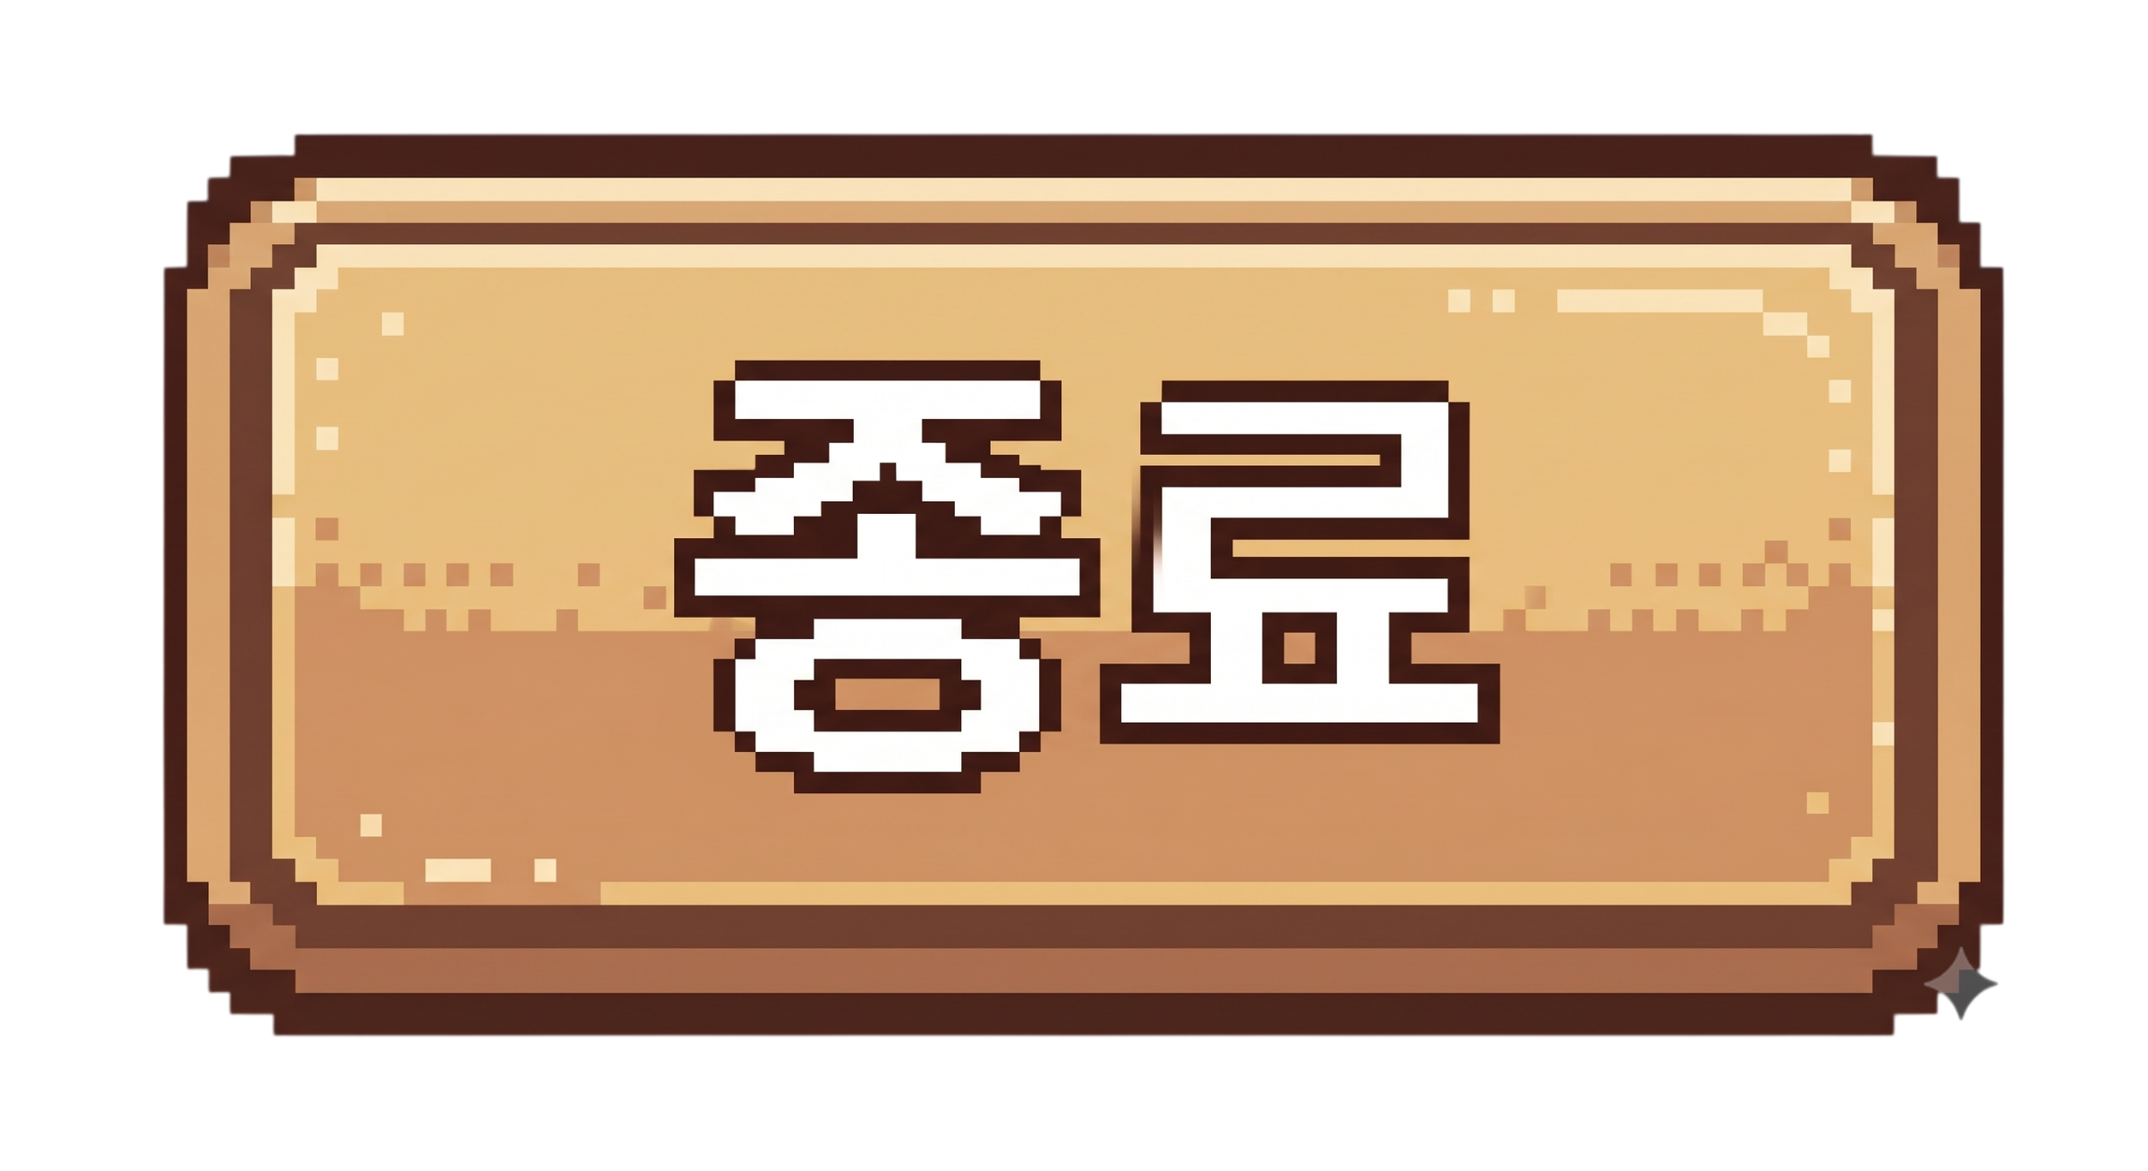
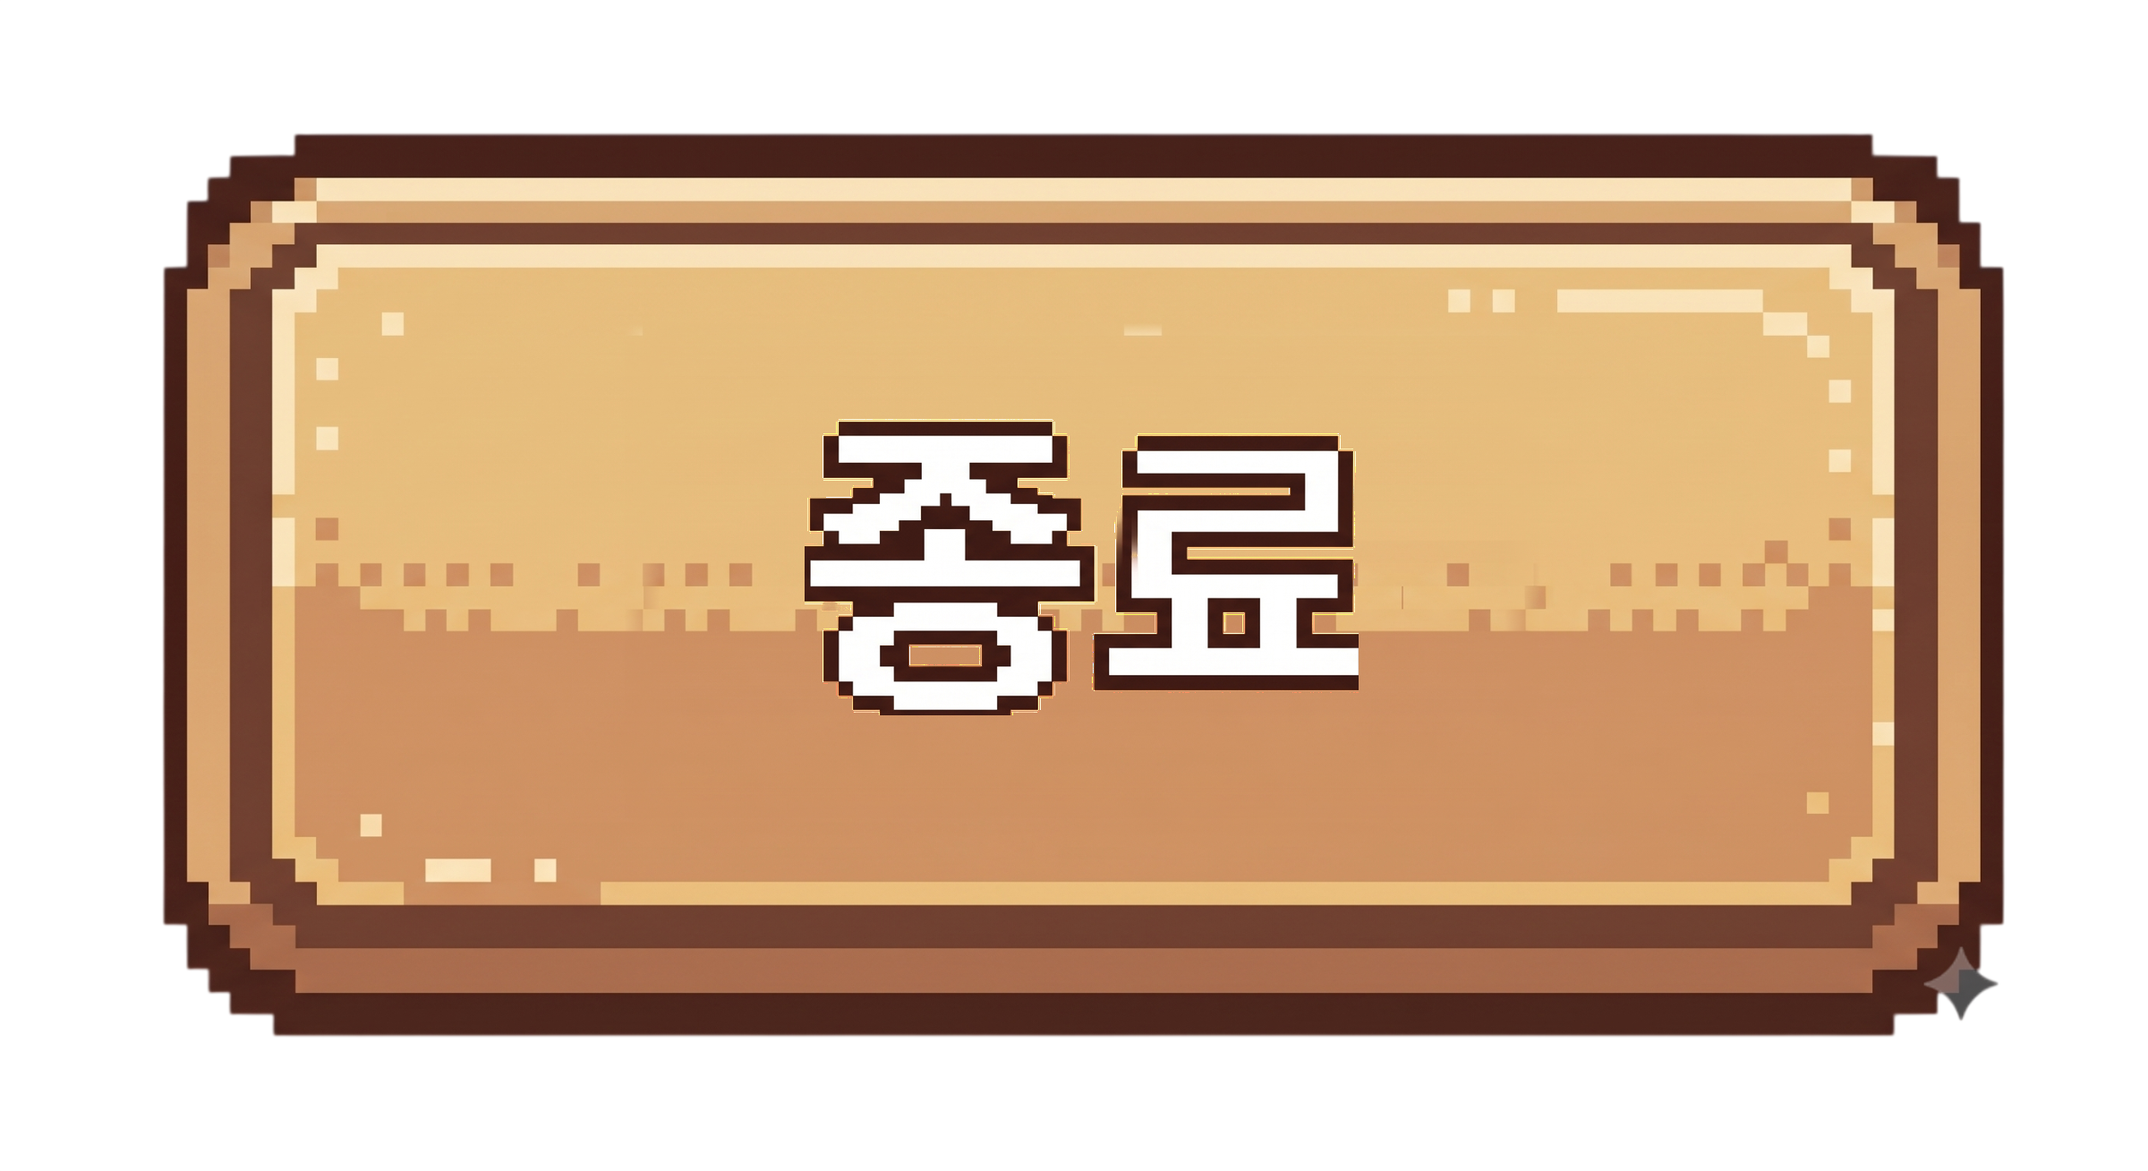
버튼·팝업 그림 속 글자를 0.7배로 줄임
@리소스 추가_1차 의 그림 6장(확인/취소/종료/닫기 버튼, 팝업 2장)에서
글자만 떼어내 0.7배로 줄이고 그 자리는 주변 배경으로 메웠다.
판·테두리·장식은 그대로이고 여백 자른 뒤 크기도 같아서
게임 안의 버튼 크기와 자리는 변하지 않는다.

원본 9장과 다시 뽑는 스크립트는 리소스_원본_1차/ 에 남겨 두었다.
배율을 바꾸려면 원본을 되돌린 뒤 글자_줄이기.py 에 배율을 붙여 실행한다.

Claude-Session: https://claude.ai/code/session_01XZNNTpKe5p1YYYjtXybaUK

Changed region(s): [[0.2812, 0.3058, 0.7188, 0.7034]]

diff --git a/글자크기_조정_반영보고서.html b/글자크기_조정_반영보고서.html
@@ -1,0 +1,176 @@
+<title>그림 속 글자 줄이기</title>
+<meta charset="utf-8">
+<style>
+  :root{
+    --bg:#f7f6f3; --card:#fff; --ink:#1c1b19; --muted:#6b6862;
+    --line:#e3e0da; --accent:#c2410c; --ok:#15803d; --warn:#b45309;
+  }
+  @media (prefers-color-scheme:dark){:root:not([data-theme="light"]){
+    --bg:#16151a; --card:#1f1e24; --ink:#eceaf0; --muted:#a3a0ab;
+    --line:#33313b; --accent:#fb923c; --ok:#4ade80; --warn:#fbbf24;
+  }}
+  :root[data-theme="dark"]{
+    --bg:#16151a; --card:#1f1e24; --ink:#eceaf0; --muted:#a3a0ab;
+    --line:#33313b; --accent:#fb923c; --ok:#4ade80; --warn:#fbbf24;
+  }
+  body{background:var(--bg);color:var(--ink);font:16px/1.65 "Malgun Gothic","Segoe UI",system-ui,sans-serif;
+       margin:0;padding:40px 20px 80px}
+  main{max-width:880px;margin:0 auto}
+  h1{font-size:28px;line-height:1.3;margin:0 0 6px;letter-spacing:-.02em}
+  .sub{color:var(--muted);margin:0 0 36px;font-size:14px}
+  h2{font-size:19px;margin:44px 0 14px;padding-bottom:8px;border-bottom:2px solid var(--line)}
+  h3{font-size:15px;margin:26px 0 8px;color:var(--accent)}
+  section{background:var(--card);border:1px solid var(--line);border-radius:12px;padding:4px 24px 24px;margin-bottom:8px}
+  .tw{overflow-x:auto;margin:14px 0}
+  table{border-collapse:collapse;width:100%;font-size:14px;min-width:460px}
+  th,td{padding:7px 10px;text-align:left;border-bottom:1px solid var(--line);vertical-align:top}
+  th{font-weight:600;color:var(--muted);font-size:12.5px;text-transform:uppercase;letter-spacing:.04em}
+  tr:last-child td{border-bottom:none}
+  code{background:var(--bg);border:1px solid var(--line);border-radius:4px;padding:1px 5px;font-size:13px;
+       font-family:Consolas,"Cascadia Mono",monospace}
+  ul{padding-left:20px} li{margin:6px 0}
+  ol{padding-left:22px} ol li{margin:8px 0}
+  .tag{display:inline-block;font-size:12px;padding:2px 9px;border-radius:99px;border:1px solid currentColor;
+       font-weight:600;vertical-align:middle}
+  .ok{color:var(--ok)} .warn{color:var(--warn)} .bad{color:var(--accent)}
+  .note{border-left:3px solid var(--warn);background:var(--bg);padding:12px 16px;border-radius:0 8px 8px 0;margin:16px 0}
+  .note p{margin:6px 0}
+  .lead{font-size:17px}
+  figure{margin:0}
+  .pair{display:flex;gap:14px;flex-wrap:wrap;margin:18px 0;align-items:flex-start}
+  .pair figure{flex:1 1 200px;min-width:170px}
+  .pair img{width:100%;display:block;border:1px solid var(--line);border-radius:8px;background:var(--bg)}
+  .pair figcaption{font-size:12.5px;color:var(--muted);margin-top:8px;text-align:center;line-height:1.5}
+  .shots{display:flex;gap:14px;flex-wrap:wrap;margin:18px 0}
+  .shots figure{flex:1 1 220px;max-width:280px}
+  .shots img{width:100%;display:block;border:1px solid var(--line);border-radius:8px}
+  .shots figcaption{font-size:12.5px;color:var(--muted);margin-top:8px;text-align:center}
+</style>
+
+<main>
+<h1>그림 속 글자를 0.7배로</h1>
+<p class="sub">심심할 때 하는 게임 &middot; 2026-09-09 &middot; <code>@리소스 추가_1차</code> 그림 6장 &middot; 0.5배로 한 번 뽑아 본 뒤 <strong>0.7배로 확정</strong> &middot; 배치 모드 확인 완료</p>
+
+<section>
+<h2>한 줄 요약</h2>
+<p class="lead"><strong>버튼과 팝업 그림 안에 그려져 있던 글자만 0.7배로 줄였습니다.</strong>
+판·테두리·장식은 손대지 않았으므로 <strong>게임 안에서의 버튼 크기와 자리는 그대로</strong>입니다. 글자만 작아졌습니다.</p>
+
+<div class="tw"><table>
+<tr><th>파일</th><th>글자</th><th>원래 글자 크기</th><th>바뀐 크기</th></tr>
+<tr><td><code>Ok_Button.png</code></td><td>확인</td><td>905 &times; 508</td><td>634 &times; 356</td></tr>
+<tr><td><code>Cancel_Button.png</code></td><td>취소</td><td>899 &times; 493</td><td>629 &times; 345</td></tr>
+<tr><td><code>End_Button.png</code></td><td>종료</td><td>884 &times; 477</td><td>619 &times; 334</td></tr>
+<tr><td><code>Close_Button.png</code></td><td>닫기</td><td>912 &times; 499</td><td>638 &times; 349</td></tr>
+<tr><td><code>Popup_01.png</code></td><td>로비로 나가시겠습니까?</td><td>977 &times; 108</td><td>684 &times; 76</td></tr>
+<tr><td><code>Popup_02.png</code></td><td>종료하시겠습니까?</td><td>867 &times; 116</td><td>607 &times; 81</td></tr>
+</table></div>
+
+<p><strong>가로·세로를 각각 0.7배</strong>로 줄였습니다(넓이로는 약 절반).
+글자의 중심 자리는 그대로 두었으므로 버튼 한가운데, 팝업의 같은 높이에 그대로 있습니다.</p>
+
+<p>처음에 요청하신 대로 <strong>0.5배(절반)로 한 번 만들어 보고, 화면에서 보니 너무 작아 0.7배로 다시 뽑았습니다.</strong>
+아래 그림과 화면은 모두 0.7배입니다.</p>
+
+<p><code>Setting.png</code>(톱니바퀴) &middot; <code>Undo.png</code>(화살표) &middot; <code>Empty_Pannel.png</code>(빈 판)
+세 장은 글자가 없어서 <strong>건드리지 않았습니다.</strong></p>
+</section>
+
+<section>
+<h2>그림으로 보기</h2>
+
+<div class="pair">
+<figure><img src="보고서_그림/글자_확인_전.png" alt="확인 버튼 (전)"><figcaption>확인 &mdash; 전</figcaption></figure>
+<figure><img src="보고서_그림/글자_확인_후.png" alt="확인 버튼 (후)"><figcaption>확인 &mdash; 후</figcaption></figure>
+</div>
+<div class="pair">
+<figure><img src="보고서_그림/글자_취소_전.png" alt="취소 버튼 (전)"><figcaption>취소 &mdash; 전</figcaption></figure>
+<figure><img src="보고서_그림/글자_취소_후.png" alt="취소 버튼 (후)"><figcaption>취소 &mdash; 후</figcaption></figure>
+</div>
+<div class="pair">
+<figure><img src="보고서_그림/글자_종료_전.png" alt="종료 버튼 (전)"><figcaption>종료 &mdash; 전</figcaption></figure>
+<figure><img src="보고서_그림/글자_종료_후.png" alt="종료 버튼 (후)"><figcaption>종료 &mdash; 후</figcaption></figure>
+</div>
+<div class="pair">
+<figure><img src="보고서_그림/글자_닫기_전.png" alt="닫기 버튼 (전)"><figcaption>닫기 &mdash; 전</figcaption></figure>
+<figure><img src="보고서_그림/글자_닫기_후.png" alt="닫기 버튼 (후)"><figcaption>닫기 &mdash; 후</figcaption></figure>
+</div>
+<div class="pair">
+<figure><img src="보고서_그림/글자_팝업_로비_전.png" alt="로비 팝업 (전)"><figcaption>로비로 나가시겠습니까? &mdash; 전</figcaption></figure>
+<figure><img src="보고서_그림/글자_팝업_로비_후.png" alt="로비 팝업 (후)"><figcaption>후</figcaption></figure>
+</div>
+<div class="pair">
+<figure><img src="보고서_그림/글자_팝업_종료_전.png" alt="종료 팝업 (전)"><figcaption>종료하시겠습니까? &mdash; 전</figcaption></figure>
+<figure><img src="보고서_그림/글자_팝업_종료_후.png" alt="종료 팝업 (후)"><figcaption>후</figcaption></figure>
+</div>
+</section>
+
+<section>
+<h2>게임 화면에서</h2>
+<p>배치 모드로 팝업을 켜서 찍은 화면입니다. 그림이 실제로 갈아 끼워졌고, 버튼 크기와 자리는 전과 같습니다.</p>
+
+<p>아래 세 장 모두 <strong>0.7배 그림이 들어간 뒤</strong> 다시 찍은 화면입니다.</p>
+
+<div class="shots">
+<figure><img src="JumpJump/JumpJump_Preview/00_popup_quit.png" alt="로비 종료 팝업">
+  <figcaption>로비 &mdash; 종료하시겠습니까?</figcaption></figure>
+<figure><img src="JumpJump/JumpJump_Preview/00_popup_settings.png" alt="설정 팝업">
+  <figcaption>로비 &mdash; 설정 ([종료] [닫기])</figcaption></figure>
+<figure><img src="JumpJump/JumpJump_Preview/04_exit_popup.png" alt="미니게임 나가기 팝업">
+  <figcaption>점프점프 &mdash; 로비로 나가시겠습니까?</figcaption></figure>
+</div>
+
+<div class="note">
+<p><strong>배율은 언제든 다시 바꿀 수 있습니다.</strong> 원본이 그대로 남아 있어서 0.6배든 0.8배든
+몇 번이든 다시 뽑을 수 있습니다 &mdash; 아래 "다시 뽑는 방법" 참고.</p>
+</div>
+</section>
+
+<section>
+<h2>어떻게 줄였나</h2>
+<p>글자가 그림 안에 그려져 있어서, <strong>글자만 떼어내고 그 자리를 메운 다음 작게 다시 얹는</strong> 방식입니다.</p>
+<ol>
+<li><strong>글자 찾기</strong> &mdash; 판의 배경색과 색이 크게 다른 곳을 글자로 봅니다.
+    (버튼은 흰 글자 + 진한 테두리, 팝업은 진한 갈색 글자)</li>
+<li><strong>자리 메우기</strong> &mdash; 버튼은 <em>같은 줄의 옆 배경</em>을 좌우로 반복해 채웁니다.
+    그래야 위아래 명암 차이와 가운데 점선 무늬가 그대로 이어집니다.
+    팝업은 판 안이 고른 색이라 그 줄의 배경색으로 평평하게 채웁니다.
+    메운 자리의 가장자리는 원래 그림과 부드럽게 섞어 이음매가 선으로 보이지 않게 했습니다.</li>
+<li><strong>다시 얹기</strong> &mdash; 떼어낸 글자를 0.7배로 줄여 <em>같은 중심</em>에 올립니다.</li>
+</ol>
+<p>테두리 · 모서리 장식 · 오른쪽 아래 반짝임은 전혀 건드리지 않았습니다.
+투명 여백을 자른 뒤의 그림 크기도 전과 같아서 <strong>게임 안에서 버튼이 커지거나 작아지지 않습니다.</strong></p>
+</section>
+
+<section>
+<h2>원본과 되돌리는 방법</h2>
+<p>바꾸기 전의 그림 9장을 통째로 <code>D:\00.JumpJump\리소스_원본_1차\</code> 에 넣어 두었습니다.</p>
+
+<h3>되돌리려면</h3>
+<ol>
+<li><code>리소스_원본_1차\</code> 의 PNG 를 <code>@리소스 추가_1차\</code> 에 덮어씁니다.</li>
+<li>Unity 에서 <strong>Tools &gt; Arcade &gt; Build All Scenes</strong>.</li>
+</ol>
+
+<h3>다시 뽑는 방법 (0.6배 · 0.8배로 바꾸고 싶을 때)</h3>
+<p>같은 폴더의 <code>글자_줄이기.py</code> 가 이번에 쓴 스크립트입니다.
+<strong>원본을 되돌린 뒤</strong> 배율을 붙여 실행하면 됩니다.</p>
+<p><code>python 글자_줄이기.py &lt;결과를 담을 폴더&gt; 0.6</code></p>
+<p>(이미 줄인 그림에 또 돌리면 안 됩니다 &mdash; 반드시 원본에서 시작해야 합니다.)</p>
+<p>말씀만 주시면 원하는 배율로 제가 다시 뽑아 드리겠습니다.</p>
+</section>
+
+<section>
+<h2>확인한 것</h2>
+<div class="tw"><table>
+<tr><th>확인</th><th>결과</th></tr>
+<tr><td>Build All Scenes (씬 4장 + 리소스 가져오기)</td><td><span class="tag ok">통과</span> 컴파일 오류 0건, 그림 6장 새로 들어옴</td></tr>
+<tr><td>타이틀 / 로비 미리보기 + 팝업 2종</td><td><span class="tag ok">통과</span> 종료 팝업 &middot; 설정 팝업 정상</td></tr>
+<tr><td>점프점프 미리보기 + 나가기 팝업</td><td><span class="tag ok">통과</span> 로비로 나가기 팝업 정상</td></tr>
+<tr><td>그림 바깥 크기 (여백 자른 뒤)</td><td><span class="tag ok">그대로</span> 버튼 &middot; 팝업 크기 변화 없음</td></tr>
+</table></div>
+<p class="sub" style="margin-top:18px">폰에서 보시려면 APK 를 다시 구워야 합니다
+(<code>Tools &gt; JumpJump &gt; Build Android APK</code>, 10분 이상). 지금 작업 폴더의 APK 는 09-07 것입니다.</p>
+</section>
+
+</main>

diff --git a/리소스_원본_1차/글자_줄이기.py b/리소스_원본_1차/글자_줄이기.py
@@ -1,0 +1,122 @@
+# -*- coding: utf-8 -*-
+"""@리소스 추가_1차 의 그림 안에 그려진 글자를 작게 줄인다 (기본 0.7배).
+   글자만 떼어내고(배경과의 색 차이로 판정), 그 자리를 주변 배경으로 메운 뒤,
+   지정한 배율로 줄인 글자를 같은 중심에 다시 얹는다. 판/테두리 그림은 건드리지 않는다."""
+from PIL import Image
+import numpy as np, os, sys
+
+SRC = r"D:/00.JumpJump/@리소스 추가_1차"
+SCALE = 0.7   # 글자 배율. 명령줄 두 번째 인자로도 줄 수 있다
+
+# 그림마다 "판 안쪽"(테두리·장식을 뺀 영역)과 배경 표본으로 쓸 깨끗한 세로 띠
+JOBS = {
+    'Ok_Button.png':     dict(interior=(430, 360, 2010, 960), strips=[(430, 720), (1730, 2010)]),
+    'Cancel_Button.png': dict(interior=(430, 360, 2010, 960), strips=[(430, 720), (1730, 2010)]),
+    'Close_Button.png':  dict(interior=(430, 360, 2010, 960), strips=[(430, 720), (1730, 2010)]),
+    'End_Button.png':    dict(interior=(430, 360, 2010, 960), strips=[(430, 720), (1730, 2010)]),
+    'Popup_01.png':      dict(interior=(680, 330, 1720, 850),  strips=[(682, 712), (1706, 1718)], fill='flat'),
+    'Popup_02.png':      dict(interior=(680, 330, 1720, 850),  strips=[(682, 712), (1706, 1718)], fill='flat'),
+}
+
+T0, T1 = 22.0, 55.0   # 배경과의 색 차이: 이 사이에서 부드럽게 글자로 친다
+
+def row_bg(a, strips, y0, y1):
+    cols = np.concatenate([a[y0:y1+1, s0:s1, :3] for s0, s1 in strips], axis=1)
+    return np.median(cols, axis=1)            # (rows,3) 줄마다의 배경색
+
+def analyze(f, job):
+    a = np.array(Image.open(os.path.join(SRC, f)).convert('RGBA')).astype(np.float64)
+    x0, y0, x1, y1 = job['interior']
+    bg = row_bg(a, job['strips'], y0, y1)
+    region = a[y0:y1+1, x0:x1+1, :3]
+    diff = np.abs(region - bg[:, None, :]).max(axis=2)
+    alpha = np.clip((diff - T0) / (T1 - T0), 0, 1)
+    solid = alpha > 0.6
+    bx0, bx1 = span(solid.mean(axis=0))
+    by0, by1 = span(solid.mean(axis=1))
+    bb = (x0 + bx0, y0 + by0, x0 + bx1, y0 + by1)
+    return a, alpha, bb
+
+def span(prof, pad=8, margin=0.03):
+    """글자가 실제로 들어찬 구간만 잘라낸다.
+       판 가장자리(테두리 빛·장식)는 밀도가 낮으므로 문턱값으로 걸러진다."""
+    n = len(prof)
+    m = int(n * margin)
+    idx = np.where(prof > max(0.04, 0.20 * prof[m:n-m].max()))[0]
+    idx = idx[(idx >= m) & (idx < n - m)]
+    return max(0, idx.min() - pad), min(n - 1, idx.max() + pad)
+
+def tile_fill(a, bb, job, alpha):
+    """글자 자리를 주변 배경으로 메운다.
+       버튼(strip): 줄마다 옆의 깨끗한 배경을 좌우로 반복해 무늬(점선·명암)를 살린다.
+       팝업(flat) : 판 안이 고른 색이라 줄마다의 배경색으로 평평하게 채운다."""
+    ax0, ay0, ax1, ay1 = job['interior']
+    flat = job.get('fill') == 'flat'
+    # 메운 자리는 원래 글자보다 넉넉히 넓어야 한다 (가장자리를 섞는 폭 + 여유)
+    px, py = (44, 44) if flat else (70, 44)
+    fx, fy = (10, 10) if flat else (40, 20)
+    x0, y0 = max(ax0, bb[0]-px), max(ay0, bb[1]-py)
+    x1, y1 = min(ax1, bb[2]+px), min(ay1, bb[3]+py)
+    if flat:
+        rows = a[y0:y1+1, ax0:ax1+1]
+        clean = alpha[y0-ay0:y1-ay0+1, :] < 0.1
+        plate = np.empty((y1-y0+1, x1-x0+1, 4))
+        for i in range(y1-y0+1):
+            sel = rows[i][clean[i]]
+            plate[i, :] = np.median(sel if len(sel) > 50 else rows[i], axis=0)
+    else:
+        s0, s1 = job['strips'][0]
+        src = a[y0:y1+1, s0:s1].copy()
+        reps = int(np.ceil((x1-x0+1) / src.shape[1])) + 1
+        parts = [src if i % 2 == 0 else src[:, ::-1] for i in range(reps)]
+        plate = np.concatenate(parts, axis=1)[:, :x1-x0+1]
+        # 왼쪽 띠를 반복해 채우므로 오른쪽 끝의 밝기가 미세하게 어긋난다.
+        # 왼쪽->오른쪽으로 밝기 차이를 서서히 더해 이음매가 선으로 보이지 않게 한다.
+        t0, t1 = job['strips'][1]
+        ml = a[y0:y1+1, s0:s1, :3].mean(axis=1)
+        mr = a[y0:y1+1, t0:t1, :3].mean(axis=1)
+        ramp = np.linspace(0, 1, x1-x0+1)[None, :, None]
+        plate[..., :3] += (mr - ml)[:, None, :] * ramp
+    out = a.copy()
+    # 메운 자리의 가장자리는 원래 그림과 부드럽게 섞는다 (이음매가 선으로 보이지 않도록)
+    h, w = plate.shape[:2]
+    wx = np.clip(np.minimum(np.arange(w), w - 1 - np.arange(w)) / fx, 0, 1)
+    wy = np.clip(np.minimum(np.arange(h), h - 1 - np.arange(h)) / fy, 0, 1)
+    wt = (wx[None, :] * wy[:, None])[..., None]
+    out[y0:y1+1, x0:x1+1] = plate * wt + out[y0:y1+1, x0:x1+1] * (1 - wt)
+    return out, (x0, y0, x1, y1)
+
+def run(f, job, outdir):
+    a, alpha, bb = analyze(f, job)
+    ix0, iy0 = job['interior'][0], job['interior'][1]
+    # 글자 레이어 (bbox 만큼 잘라서 premultiplied 로 축소)
+    x0, y0, x1, y1 = bb
+    crop = a[y0:y1+1, x0:x1+1, :3]
+    al = alpha[y0-iy0:y1-iy0+1, x0-ix0:x1-ix0+1]
+    lay = np.dstack([crop * al[..., None], al * 255.0]).astype(np.uint8)
+    li = Image.fromarray(lay, 'RGBA')
+    nw, nh = max(1, round(li.width*SCALE)), max(1, round(li.height*SCALE))
+    li = li.resize((nw, nh), Image.LANCZOS)
+    small = np.array(li).astype(np.float64)
+    sa = small[..., 3:4] / 255.0
+    srgb = np.divide(small[..., :3], np.where(sa > 0, sa, 1))   # unpremultiply
+    # 배경 메우기
+    plate, filled = tile_fill(a, bb, job, alpha)
+    # 같은 중심에 다시 얹기
+    cx, cy = (x0+x1)/2.0, (y0+y1)/2.0
+    px, py = int(round(cx - nw/2.0)), int(round(cy - nh/2.0))
+    dst = plate[py:py+nh, px:px+nw]
+    dst[..., :3] = srgb * sa + dst[..., :3] * (1 - sa)
+    dst[..., 3] = np.maximum(dst[..., 3], small[..., 3])
+    plate[py:py+nh, px:px+nw] = dst
+    res = Image.fromarray(np.clip(plate, 0, 255).astype(np.uint8), 'RGBA')
+    res.save(os.path.join(outdir, f))
+    print(f'{f:20s} 글자 {x1-x0+1}x{y1-y0+1} -> {nw}x{nh}  (자리 {filled})')
+
+if __name__ == '__main__':
+    outdir = sys.argv[1]
+    if len(sys.argv) > 2:
+        SCALE = float(sys.argv[2])
+    os.makedirs(outdir, exist_ok=True)
+    for f, job in JOBS.items():
+        run(f, job, outdir)
